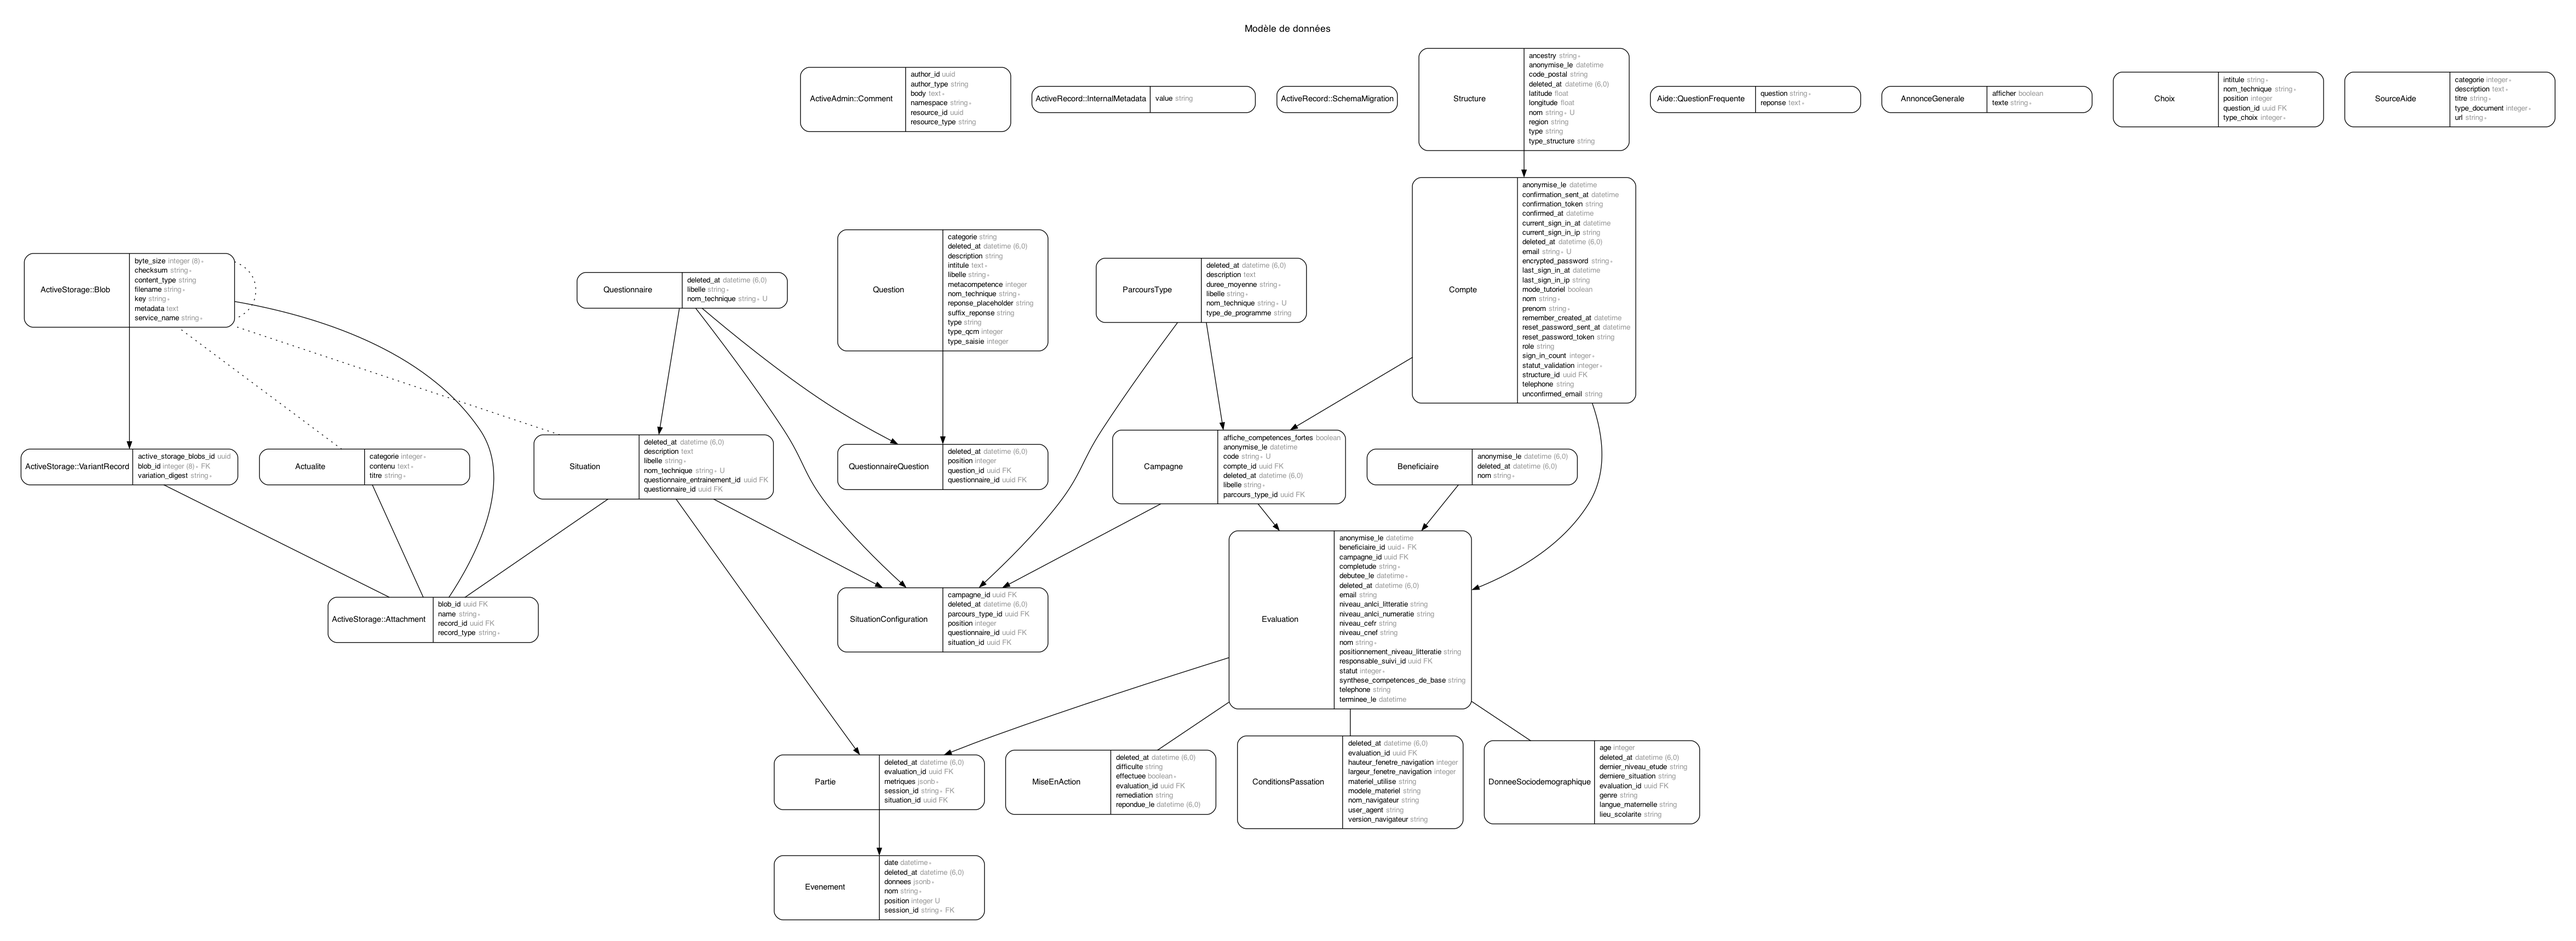
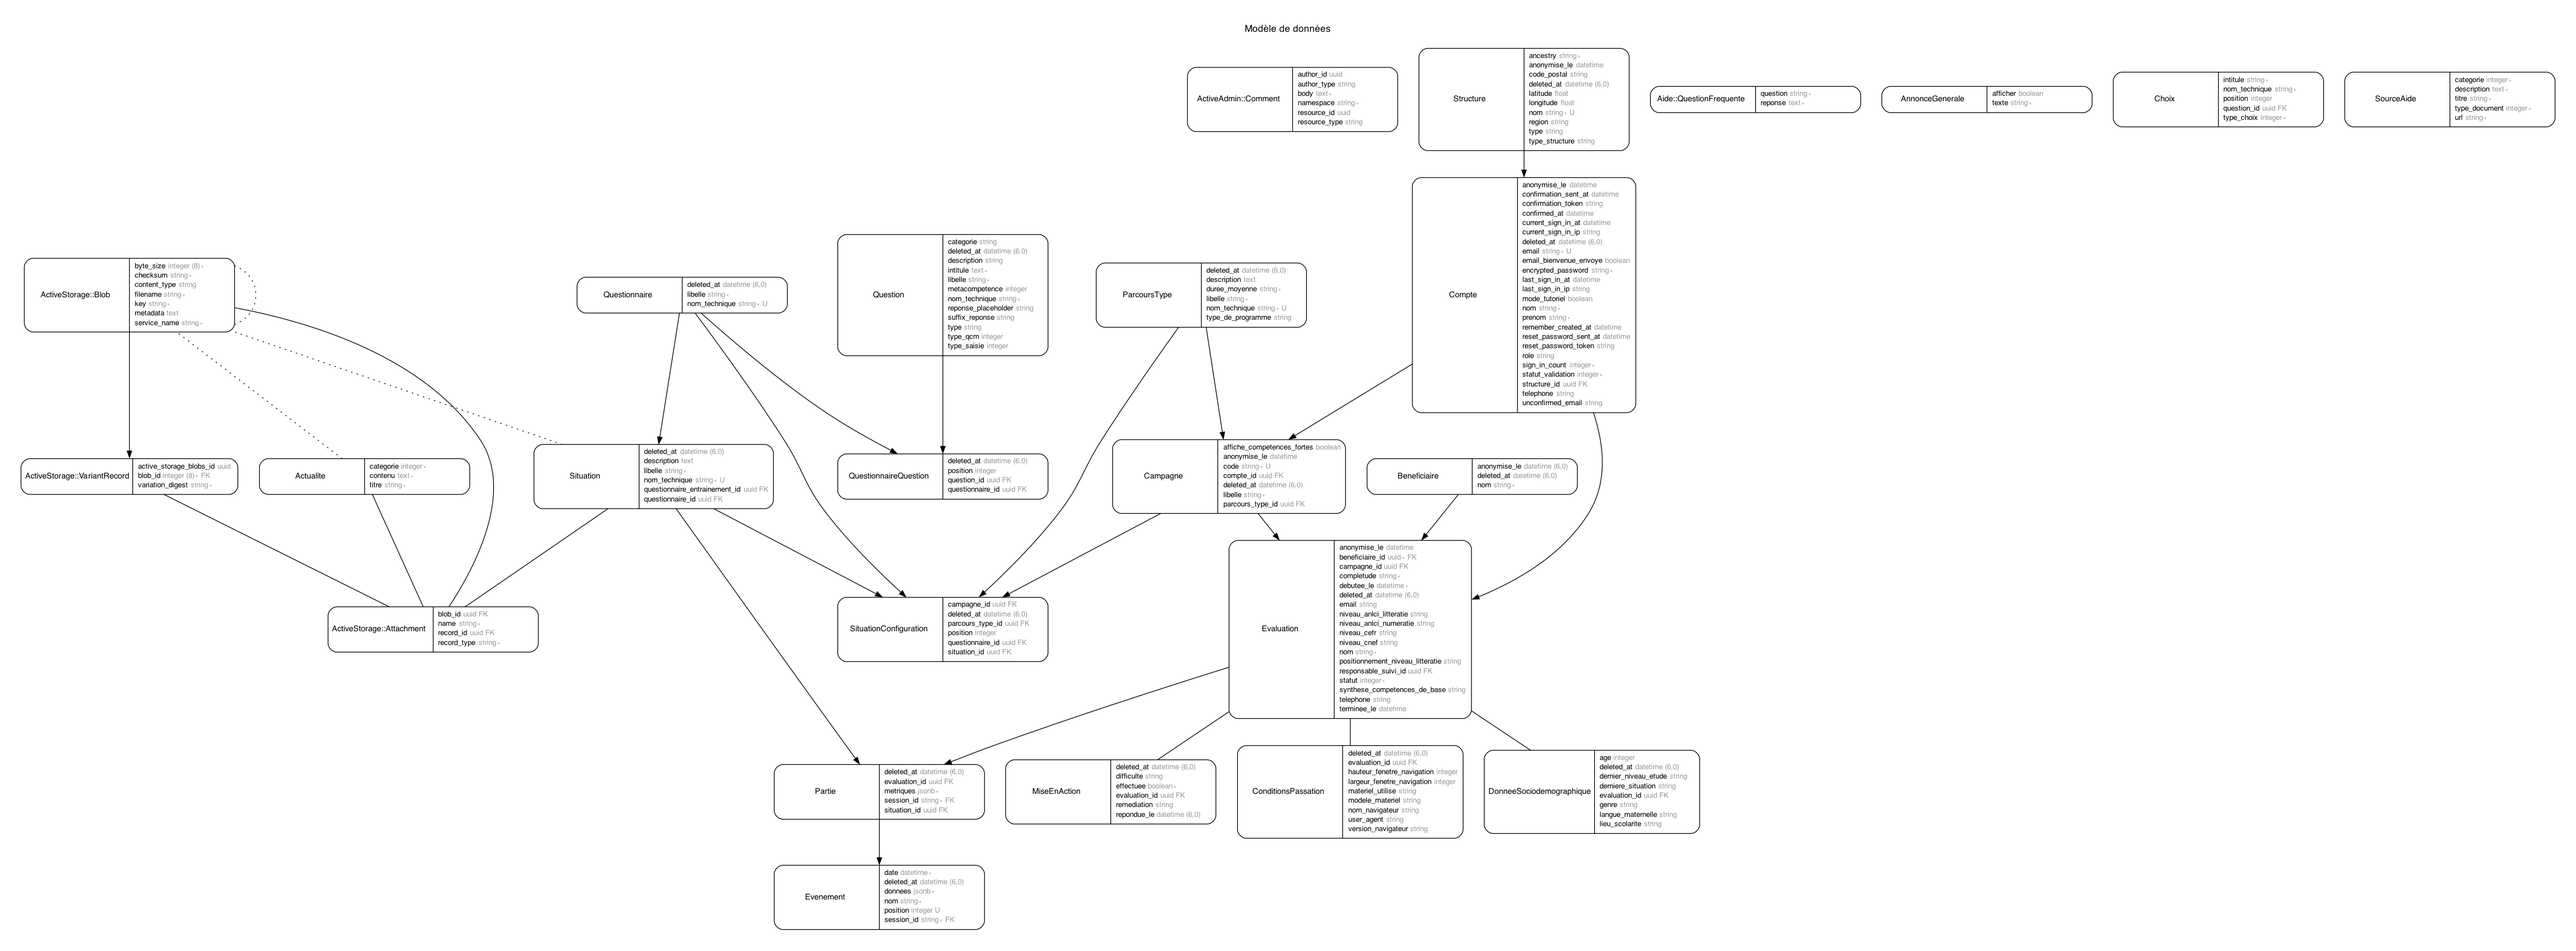
Ajoute la colonne email_bienvenue_envoye à Compte

diff --git a/db/schema.rb b/db/schema.rb
@@ -10,7 +10,7 @@
 #
 # It's strongly recommended that you check this file into your version control system.
 
-ActiveRecord::Schema[7.0].define(version: 2023_06_21_114945) do
+ActiveRecord::Schema[7.0].define(version: 2023_08_21_094529) do
   # These are extensions that must be enabled in order to support this database
   enable_extension "pgcrypto"
   enable_extension "plpgsql"
@@ -136,6 +136,7 @@ ActiveRecord::Schema[7.0].define(version: 2023_06_21_114945) do
     t.string "unconfirmed_email"
     t.datetime "deleted_at"
     t.boolean "mode_tutoriel", default: true
+    t.boolean "email_bienvenue_envoye"
     t.index ["confirmation_token"], name: "index_comptes_on_confirmation_token", unique: true
     t.index ["deleted_at"], name: "index_comptes_on_deleted_at"
     t.index ["email"], name: "index_comptes_on_email", unique: true, where: "(deleted_at IS NULL)"

diff --git a/db/migrate/20230821094529_ajoute_colonne_email_bienvenue_envoye_a_compte.rb b/db/migrate/20230821094529_ajoute_colonne_email_bienvenue_envoye_a_compte.rb
@@ -1,0 +1,12 @@
+class AjouteColonneEmailBienvenueEnvoyeACompte < ActiveRecord::Migration[7.0]
+  class Compte < ApplicationRecord; end
+
+  def up
+    add_column :comptes, :email_bienvenue_envoye, :boolean
+    Compte.update_all(email_bienvenue_envoye: true)
+  end
+
+  def down
+    remove_column :comptes, :email_bienvenue_envoye
+  end
+end
